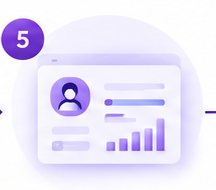
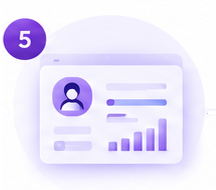
38 вакансий язык заданий убран для нет-кодовых карточки лендинга одной ширины иллюстрации дочищены

diff --git a/frontend/app/page.tsx b/frontend/app/page.tsx
@@ -2,7 +2,7 @@
 
 import { useRouter } from "next/navigation";
 import { useEffect, useState } from "react";
-import { GET, POST, getRole, saveAuth } from "@/lib/api";
+import { GET, POST, NOCODE_SPECS, getRole, saveAuth } from "@/lib/api";
 import { Button, Card, Field, inputCls } from "@/components/ui";
 
 export default function Landing() {
@@ -58,8 +58,8 @@ export default function Landing() {
 
   return (
     <main className="min-h-screen bg-gradient-to-br from-[#3b1f5e] via-[#5e2b8e] to-[#8b5cf6] flex items-center justify-center p-6">
-      <div className="flex w-full max-w-5xl flex-col items-stretch justify-center gap-6 lg:flex-row">
-      <Card className="w-full max-w-md">
+      <div className="flex w-full max-w-6xl flex-col items-stretch justify-center gap-6 lg:flex-row">
+      <Card className="w-full max-w-xl">
         <h1 className="text-xl font-bold text-[#3b1f5e]">Платформа подбора ИТ-специалистов ФСП</h1>
         <p className="mt-1 text-sm text-gray-500">
           Обратная механика: кандидат подтверждает грейд тестом, работодатель приглашает первым.
@@ -163,7 +163,8 @@ function DemoQuiz({ onRegister }: { onRegister: () => void }) {
     setBusy(true);
     setError("");
     try {
-      const r = await POST("/demo/quiz/start", undefined, { spec, language: lang });
+      const r = await POST("/demo/quiz/start", undefined,
+        NOCODE_SPECS.includes(spec) ? { spec } : { spec, language: lang });
       setToken(r.token);
       setItem(r.item);
       setPhase("playing");
@@ -206,7 +207,7 @@ function DemoQuiz({ onRegister }: { onRegister: () => void }) {
   };
 
   return (
-    <Card className="w-full max-w-md lg:self-center">
+    <Card className="w-full max-w-xl lg:self-center">
       <h2 className="text-lg font-bold text-[#3b1f5e]">Попробуйте CAT-тест прямо сейчас</h2>
       <p className="mt-1 text-sm text-gray-500">
         3 задания без регистрации. Сложность подбирается под ваш уровень после каждого ответа —
@@ -215,20 +216,22 @@ function DemoQuiz({ onRegister }: { onRegister: () => void }) {
 
       {phase === "idle" && (
         <div className="mt-4 space-y-3">
-          <div className="grid grid-cols-2 gap-2">
+          <div className={`grid gap-2 ${NOCODE_SPECS.includes(spec) ? "grid-cols-1" : "grid-cols-2"}`}>
             <Field label="Специальность">
               <select className={inputCls} value={spec} onChange={(e) => setSpec(e.target.value)}>
                 {(specs.length > 0 ? specs : [{ code: "backend", name: "Бэкенд-разработчик" }])
                   .map((s: any) => <option key={s.code} value={s.code}>{s.name}</option>)}
               </select>
             </Field>
-            <Field label="Язык заданий">
-              <select className={inputCls} value={lang} onChange={(e) => setLang(e.target.value)}>
-                {[["python", "Python"], ["javascript", "JavaScript"], ["c++", "C++"],
-                  ["c#", "C#"], ["java", "Java"]]
-                  .map(([v, l]) => <option key={v} value={v}>{l}</option>)}
-              </select>
-            </Field>
+            {!NOCODE_SPECS.includes(spec) && (
+              <Field label="Язык заданий">
+                <select className={inputCls} value={lang} onChange={(e) => setLang(e.target.value)}>
+                  {[["python", "Python"], ["javascript", "JavaScript"], ["c++", "C++"],
+                    ["c#", "C#"], ["java", "Java"]]
+                    .map(([v, l]) => <option key={v} value={v}>{l}</option>)}
+                </select>
+              </Field>
+            )}
           </div>
           <Button onClick={start} disabled={busy} className="w-full">
             {busy ? "…" : "Начать демо — 3 задания"}

diff --git a/frontend/app/employer/page.tsx b/frontend/app/employer/page.tsx
@@ -2,7 +2,7 @@
 
 import { useCallback, useEffect, useRef, useState } from "react";
 import { useRouter } from "next/navigation";
-import { DEL, GET, POST, PUT, GRADE_RU, getRole, logout, photoUrl, uploadFile } from "@/lib/api";
+import { DEL, GET, POST, PUT, GRADE_RU, NOCODE_SPECS, getRole, logout, photoUrl, uploadFile } from "@/lib/api";
 import { Badge, Bar, Button, Card, Field, FspAchievements, HistoryBlock, inputCls } from "@/components/ui";
 
 type Tab = "overview" | "vacancies" | "apps" | "tests" | "invites";
@@ -577,12 +577,14 @@ function VacanciesStep({ specs, setSpecs, skills, onDone }: any) {
                   {Object.entries(GRADE_RU).map(([k, ru]) => <option key={k} value={k}>{ru}</option>)}
                 </select>
               </Field>
-              <Field label="Язык заданий в тесте">
-                <select className={inputCls} value={v.code_language || "python"}
-                  onChange={(e) => setParam(code, "code_language", e.target.value)}>
-                  {["python", "javascript", "c++", "c#", "java"].map((l) => <option key={l} value={l}>{l}</option>)}
-                </select>
-              </Field>
+              {!NOCODE_SPECS.includes(code) && (
+                <Field label="Язык заданий в тесте">
+                  <select className={inputCls} value={v.code_language || "python"}
+                    onChange={(e) => setParam(code, "code_language", e.target.value)}>
+                    {["python", "javascript", "c++", "c#", "java"].map((l) => <option key={l} value={l}>{l}</option>)}
+                  </select>
+                </Field>
+              )}
               <Field label="Навыки (по желанию)">
                 <div className="flex flex-wrap gap-1.5 mb-2">
                   {v.stack.map((t: string) => (
@@ -700,7 +702,8 @@ function DraftEditor({ vacancy, blueprint, allBlueprints, skills, onSaved }: any
       <div className="flex items-center justify-between">
         <h4 className="font-semibold text-[#3b1f5e]">Тест для «{vacancy.title}»</h4>
         <span className="text-xs text-gray-500">
-          язык заданий: {vacancy.code_language || "python"} ·{" "}
+          {!NOCODE_SPECS.includes(vacancy.specialization_code) &&
+            <>язык заданий: {vacancy.code_language || "python"} ·{" "}</>}
           {status === "published" ? "опубликован" : status === "draft" ? "черновик" : status}
         </span>
       </div>

diff --git a/frontend/lib/api.ts b/frontend/lib/api.ts
@@ -89,6 +89,7 @@ export const GRADE_RU: Record<string, string> = {
 export const GRADE_RU_GEN: Record<string, string> = {
   junior: "младшего", middle: "среднего", senior: "старшего", lead: "ведущего",
 };
+export const NOCODE_SPECS = ["hr", "office_admin"];
 export const SPEC_RU: Record<string, string> = {
   backend: "бэкенд", frontend: "фронтенд", ml: "ML", analytics: "аналитика",
   qa: "QA", hr: "HR", office_admin: "делопроизводство", devops: "DevOps",

diff --git a/backend/app/api/routes/admin.py b/backend/app/api/routes/admin.py
@@ -76,6 +76,46 @@ EXTRA_VACANCIES = [
      "stack": ["c#", "asp.net", "postgresql"], "min_grade": "middle",
      "salary_min": 160000, "salary_max": 280000, "code_language": "c#",
      "description": "Корпоративные сервисы ритейл-сети: ASP.NET, интеграции с кассами."},
+    {"emp": 1, "spec": "backend", "title": "Go-разработчик (платёжный шлюз)",
+     "stack": ["go", "redis", "postgresql"], "min_grade": "middle",
+     "salary_min": 190000, "salary_max": 310000, "code_language": "python",
+     "description": "Очереди платежей на Go: высокая нагрузка, ретраи, идемпотентность."},
+    {"emp": 1, "spec": "devops", "title": "Инженер защиты приложений (AppSec)",
+     "stack": ["security", "linux", "docker"], "min_grade": "middle",
+     "salary_min": 190000, "salary_max": 320000, "code_language": "python",
+     "description": "Безопасность приложений: ревью кода, модель угроз, конвейеры CI/CD."},
+    {"emp": 2, "spec": "ml", "title": "MLOps-инженер",
+     "stack": ["python", "mlflow", "docker"], "min_grade": "middle",
+     "salary_min": 200000, "salary_max": 330000, "code_language": "python",
+     "description": "Жизненный цикл моделей: mlflow, реестр, сервинг, мониторинг."},
+    {"emp": 2, "spec": "frontend", "title": "Frontend-разработчик (визуализации)",
+     "stack": ["typescript", "react"], "min_grade": "middle",
+     "salary_min": 150000, "salary_max": 260000, "code_language": "javascript",
+     "description": "Интерактивные графики и дашборды: drill-down, экспорт, тёмная тема."},
+    {"emp": 2, "spec": "analytics", "title": "Scala-разработчик (Spark)",
+     "stack": ["scala", "spark", "clickhouse"], "min_grade": "senior",
+     "salary_min": 250000, "salary_max": 400000, "code_language": "java",
+     "description": "Потоковая аналитика: spark-джобы, clickhouse, витрины для BI."},
+    {"emp": 3, "spec": "frontend", "title": "Vue-разработчик (личный кабинет)",
+     "stack": ["vue", "javascript"], "min_grade": "junior",
+     "salary_min": 100000, "salary_max": 170000, "code_language": "javascript",
+     "description": "Личный кабинет клиента на Vue: заявки, документы, оплата."},
+    {"emp": 3, "spec": "devops", "title": "DevOps-инженер (Kubernetes)",
+     "stack": ["kubernetes", "helm", "gitlab ci"], "min_grade": "middle",
+     "salary_min": 170000, "salary_max": 280000, "code_language": "python",
+     "description": "Платформа выдачи услуг: k8s, helm-чарты, пайплайны в GitLab."},
+    {"emp": 4, "spec": "qa", "title": "QA-инженер (мобильные приложения)",
+     "stack": ["android", "ios", "postman"], "min_grade": "middle",
+     "salary_min": 130000, "salary_max": 210000, "code_language": "python",
+     "description": "Тестирование приложения лояльности: чек-листы, регресс, баг-репорты."},
+    {"emp": 4, "spec": "backend", "title": "Go-разработчик (складская логистика)",
+     "stack": ["go", "postgresql", "rabbitmq"], "min_grade": "middle",
+     "salary_min": 180000, "salary_max": 300000, "code_language": "python",
+     "description": "Сервисы склада: заказы, остатки, интеграции с кассами."},
+    {"emp": 4, "spec": "analytics", "title": "Аналитик данных (Power BI)",
+     "stack": ["power bi", "sql", "excel"], "min_grade": "junior",
+     "salary_min": 100000, "salary_max": 160000, "code_language": "python",
+     "description": "Отчёты ритейла в Power BI: продажи, остатки, оборачиваемость."},
 ]
 
 

diff --git a/README.md b/README.md
@@ -38,7 +38,7 @@ docker compose up -d --build
 ```
 Стенд: http://localhost:3000 · Swagger: http://localhost:8000/api/docs
 
-Демо-данные (150 кандидатов, 8 специализаций, 28 вакансий) сеятся
+Демо-данные (150 кандидатов, 8 специализаций, 38 вакансий) сеятся
 автоматически при пустой базе:
 ```bash
 curl -X POST "http://localhost:8000/api/admin/seed?reset=true"
